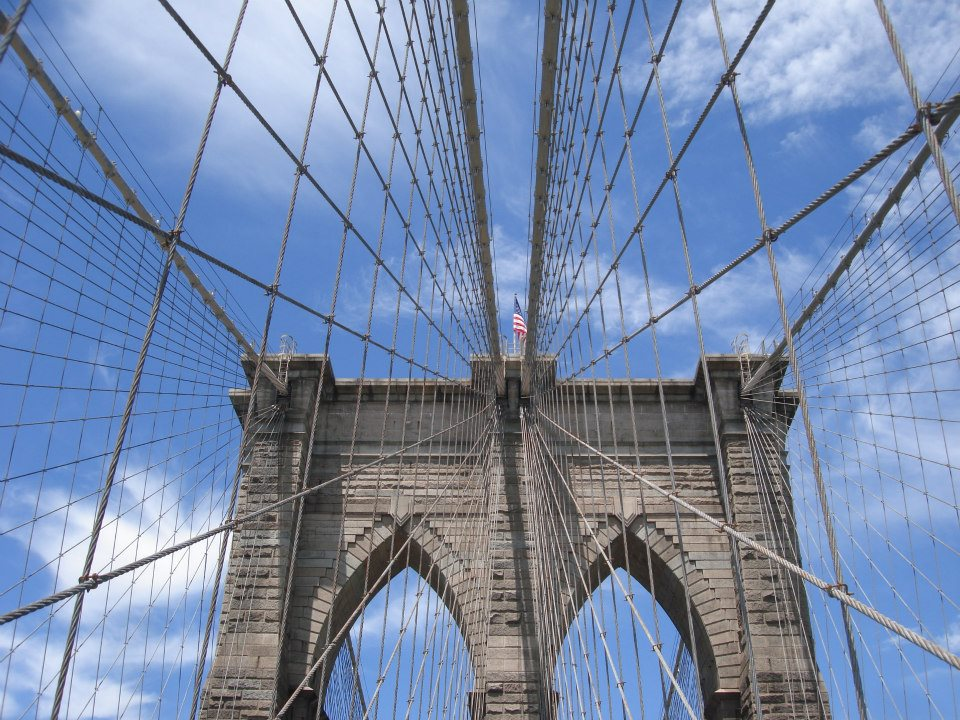
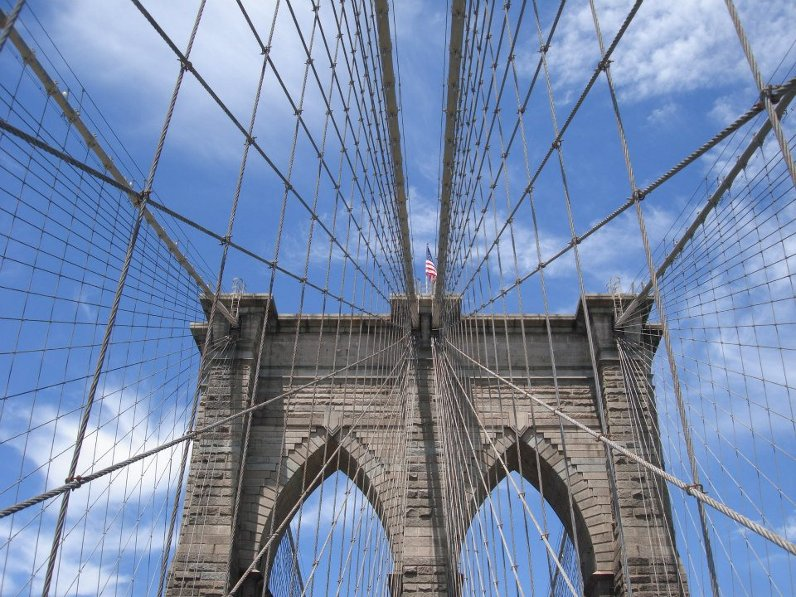
some changes

diff --git a/index.html b/index.html
@@ -95,9 +95,9 @@
 							</a>
 							
 							<a href="#" target="_blank">
-								<img src='image/mountains.jpg' >
+								<img src='image/9.jpg' >
 									<span>
-										Grand Teton NP. near Moran, Wyoming
+										Brooklyn Bridge - Brooklyn, NY
 									</span>
 							</a>
 							
@@ -141,13 +141,13 @@
                         </div>
                         
                         <div class="row">
-                            All of this stuff is changable and up to you if you want to change things, let me know! (fonts, colors etc.) but for now I feel this is a good working base model.
+                            All of this stuff is changable and up to you if you want to change things, let me know and I can get on that! (fonts, colors etc.) but for now I feel this is a good working base model.
                         </div>
 						
 						 <div class="row">
                             Within the sub-pages is where you are gonna find your stuff more sorted into your categories and whatnot.<br />
-							so far you have Gallery, About, Events, and Contact but those are just my best guesses, we can add or change those easily.<br /><br />
-							feel free to click on 'em and start thinking about things you want to add!
+							
+							
                         </div>
                         
                         

diff --git a/CSS/coin-slider-styles.css b/CSS/coin-slider-styles.css
@@ -8,10 +8,44 @@
 .coin-slider a{ text-decoration: none; outline: none; border: none; }
 
 .cs-buttons { font-size: 0px; padding: 10px; float: left; }
-.cs-buttons a { margin-left: 5px; height: 10px; width: 10px; float: left; border: 1px solid #B8C4CF; color: #B8C4CF; text-indent: -1000px; }
-.cs-active { background-color: #B8C4CF; color: #FFFFFF; }
+.cs-buttons a { margin-left: 5px; height: 10px; width: 10px; float: left; border: 1px solid #08C; color: #B8C4CF; text-indent: -1000px; }
+.cs-active { background-color: #08C; color: #FFFFFF; }
 
-.cs-title { width: 716px; padding: 10px; background-color: #000000; color: #FFFFFF; }
+.cs-title { width: 776px; padding: 10px; background-color: #000000; color: #FFFFFF; }
 
-.cs-prev, 
-.cs-next { background-color: #000000; color: #FFFFFF; padding: 0px 10px; }
+.cs-prev{
+
+font-size:25px; 
+background-color: #08C; 
+color: black; 
+padding: 0px 10px;
+
+-webkit-border-radius: 0px 4px 4px 0px;
+-moz-border-radius: 0px 0px 5px 5px;
+
+
+
+} 
+
+ .cs-prev:hover {
+color:white;  
+
+ }
+
+
+.cs-next { 
+
+
+font-size:25px; 
+background-color: #08C; 
+color: black; 
+padding: 0px 10px;
+
+-webkit-border-radius: 4px 0px 0px 4px;
+-moz-border-radius: 5px 0px 0px 5px;
+ }
+ 
+ .cs-next:hover {
+color:white;  
+
+ }

diff --git a/JS/coin-slider.js b/JS/coin-slider.js
@@ -284,7 +284,7 @@
 			});						
 
 			$("#cs-buttons-"+el.id).css({
-				'left'			: '50%',
+				'left'			: '4%',
 				'margin-left' 	: -images[el.id].length*15/2-5,
 				'position'		: 'relative'
 				
@@ -469,8 +469,8 @@
 	
 	// default values
 	$.fn.coinslider.defaults = {	
-		width: 736, // width of slider panel
-		height: 441, // height of slider panel
+		width: 796, // width of slider panel
+		height: 501, // height of slider panel
 		spw: 1, // squares per width
 		sph: 1, // squares per height
 		delay: 8000, // delay between images in ms

diff --git a/CSS/style.css b/CSS/style.css
@@ -200,12 +200,12 @@ height:5px;
 
 #maincontent .row{
    
-    padding-top:22px;
+    
     
 }
 
 #sidebar{
-    padding:15px;
+    
    width:175px;
     
     

diff --git a/CSS/bootstrap.css b/CSS/bootstrap.css
@@ -727,7 +727,7 @@ h4 small {
 ul,
 ol {
   padding: 0;
-  margin: 0 0 10px 25px;
+  margin: 0 0 0px 0px;
 }
 
 ul ul,
